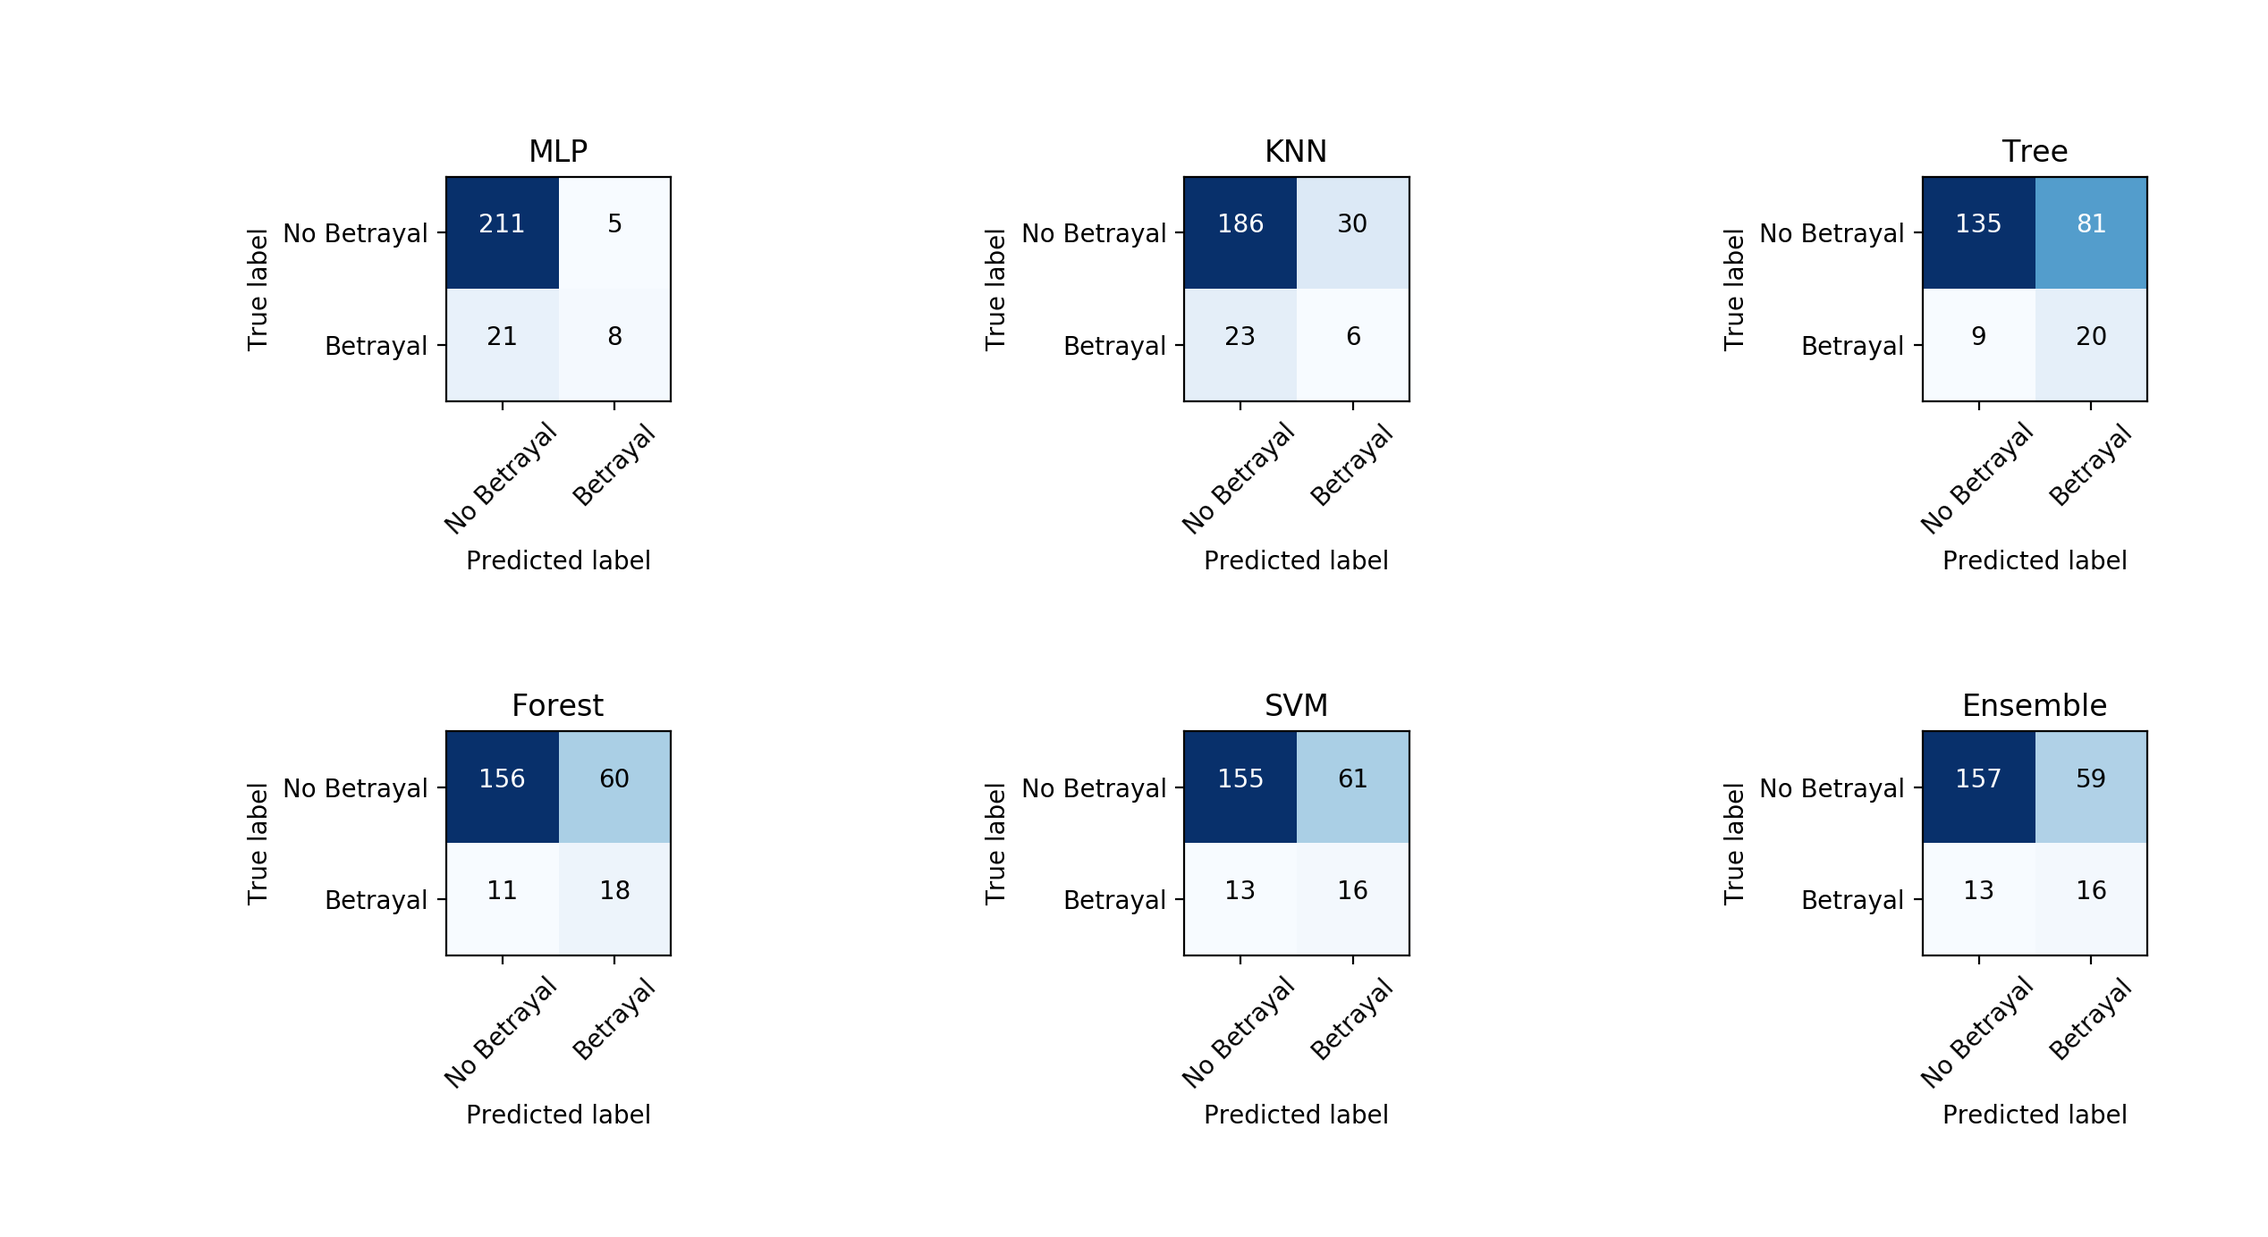
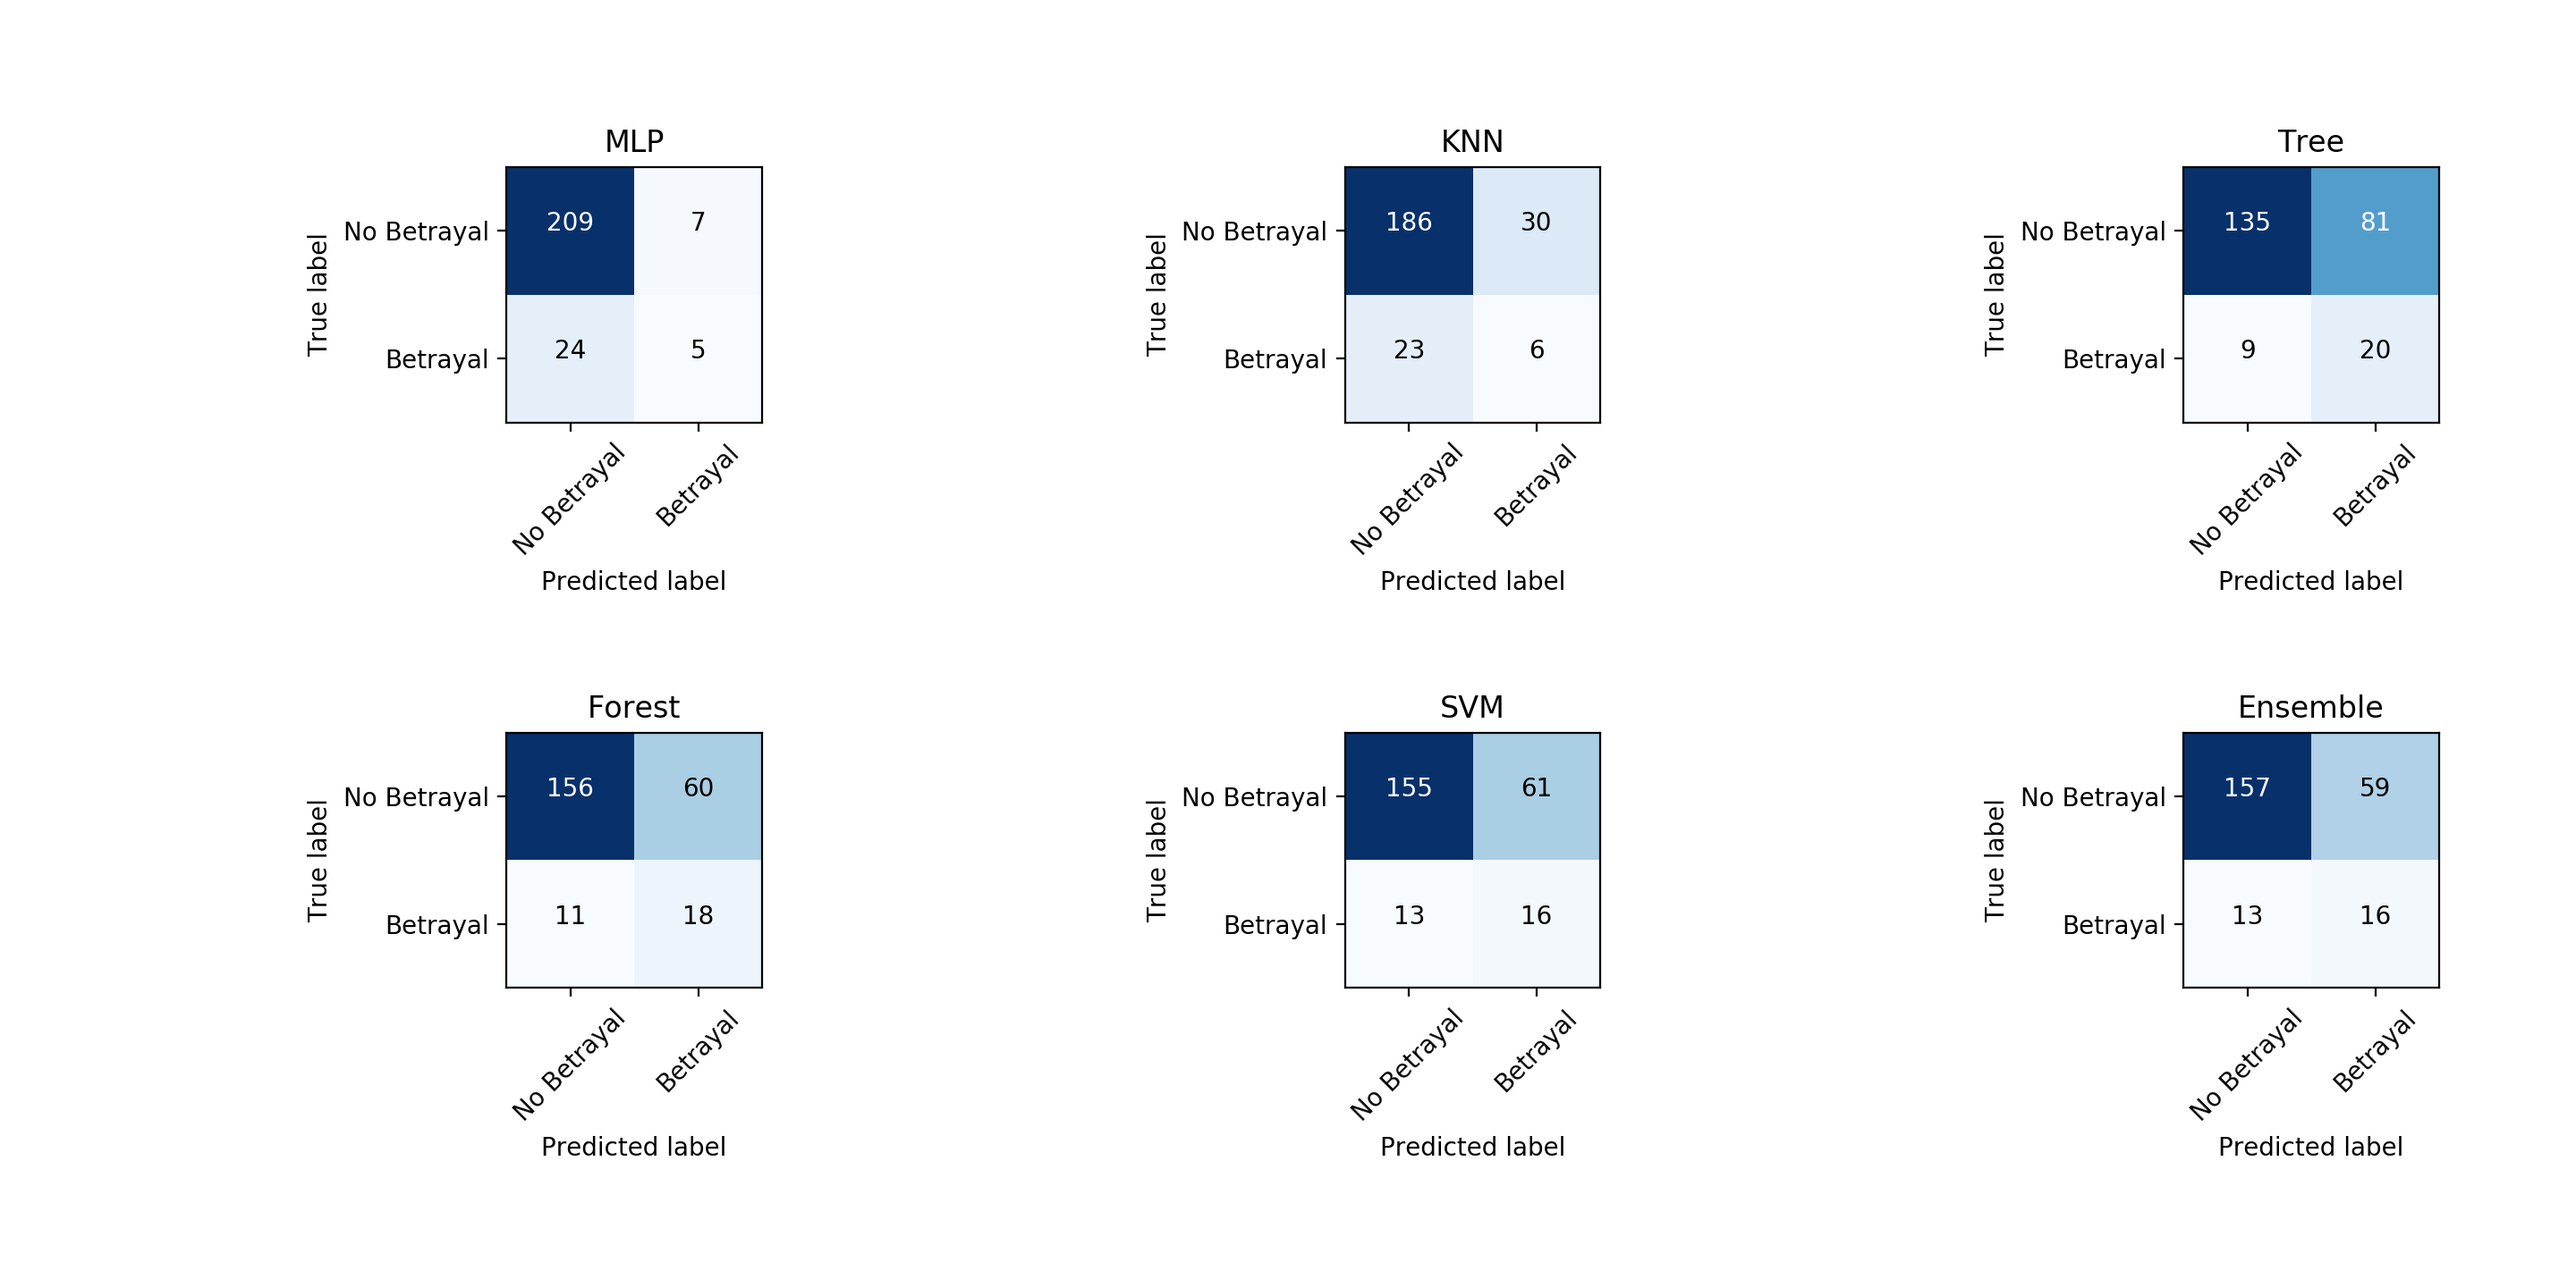
Formatted confusion matrices better

diff --git a/diplomacy/src/training.py b/diplomacy/src/training.py
@@ -109,14 +109,13 @@ def _get_xy(path_to_data=None, binary=True, upsample=True, replicate=False):
 def plot_confusion_matrix(cm, classes, subplot, normalize=False, title="Confusion matrix", cmap=plt.cm.Blues):
     """
     """
-    normalize=True
     plt.subplot(subplot)
     plt.imshow(cm, interpolation='nearest', cmap=cmap)
-    plt.title(title)
+    plt.title(title, fontsize=20, fontweight='bold')
 #    plt.colorbar()
     tick_marks = np.arange(len(classes))
-    plt.xticks(tick_marks, classes, rotation=45)
-    plt.yticks(tick_marks, classes)
+    plt.xticks(tick_marks, classes, fontsize=8)
+    plt.yticks(tick_marks, classes, fontsize=8)
 
     if normalize:
         cm = cm.astype('float') / cm.sum(axis=1)[:, np.newaxis]
@@ -124,13 +123,15 @@ def plot_confusion_matrix(cm, classes, subplot, normalize=False, title="Confusio
 
     thresh = cm.max() / 2.
     for i, j in itertools.product(range(cm.shape[0]), range(cm.shape[1])):
-        plt.text(j, i, cm[i, j],
+        plt.text(j, i, cm[i, j], fontsize=25,
                  horizontalalignment="center",
                  color="white" if cm[i, j] > thresh else "black")
 
-    plt.tight_layout()
-    plt.ylabel('True label')
-    plt.xlabel('Predicted label')
+    #plt.tight_layout()
+    if subplot == 231 or subplot == 234:
+        plt.ylabel('True label', fontsize=15)
+    if subplot == 234 or subplot == 235 or subplot == 236:
+        plt.xlabel('Predicted label', fontsize=15)
 
 def train_knn(path_to_data=None, path_to_save_model=None, load_model=False, path_to_load=None, binary=True, subplot=111, title=""):
     """
@@ -515,23 +516,23 @@ if __name__ == "__main__":
 
     #train_rnn(path_to_save_model="rnn.hdf5", subplot=236, title="RNN")
     #train_mlp(path_to_save_model="mlp.hdf5", subplot=231, title="MLP")
-    knn = train_knn(path_to_save_model="knn.model", subplot=232, title="KNN")
-    tree =train_tree(path_to_save_model="tree.model", subplot=233, title="Tree")
-    forest = train_random_forest(path_to_save_model="forest.model", subplot=234, title="Forest")
-    svm = train_svm(path_to_save_model="svm.model", subplot=235, title="SVM")
+    #knn = train_knn(path_to_save_model="knn.model", subplot=232, title="KNN")
+    #tree =train_tree(path_to_save_model="tree.model", subplot=233, title="Tree")
+    #forest = train_random_forest(path_to_save_model="forest.model", subplot=234, title="Forest")
+    #svm = train_svm(path_to_save_model="svm.model", subplot=235, title="SVM")
     #train_logregr(path_to_save_model="logregr.model", subplot=236, title="Log Reg")
 
-    #mlp = train_mlp(load_model=True, path_to_load="models/mlp.hdf5", subplot=231, title="MLP")
-    #knn = train_knn(load_model=True, path_to_load="models/knn.model", subplot=232, title="KNN")
-    #tree = train_tree(load_model=True, path_to_load="models/tree.model", subplot=233, title="Tree")
-    #forest = train_random_forest(load_model=True, path_to_load="models/forest.model", subplot=234, title="Forest")
-    #svm = train_svm(load_model=True, path_to_load="models/svm.model", subplot=235, title="SVM")
+    mlp = train_mlp(load_model=True, path_to_load="models/mlp.hdf5", subplot=231, title="MLP")
+    knn = train_knn(load_model=True, path_to_load="models/knn.model", subplot=232, title="KNN")
+    tree = train_tree(load_model=True, path_to_load="models/tree.model", subplot=233, title="Tree")
+    forest = train_random_forest(load_model=True, path_to_load="models/forest.model", subplot=234, title="Forest")
+    svm = train_svm(load_model=True, path_to_load="models/svm.model", subplot=235, title="SVM")
     #rnn = train_rnn(load_model=True, path_to_load="models/rnn.hdf5", subplot=236, title="RNN")
 
     #logregr = train_logregr(load_model=True, path_to_load="models/logregr.model", subplot=236, title="Log Reg", replicate=True)
 
-    #ensemble = Ensemble([mlp, knn, tree, forest, svm], ["MLP", "KNN", "Tree", "Forest", "SVM"])
-    #print("Computing the ensemble...")
-    #compute_confusion_matrix(ensemble, upsample=False, subplot=236, title="Ensemble")
+    ensemble = Ensemble([mlp, knn, tree, forest, svm], ["MLP", "KNN", "Tree", "Forest", "SVM"])
+    print("Computing the ensemble...")
+    compute_confusion_matrix(ensemble, upsample=False, subplot=236, title="Ensemble")
     plt.show()
 
